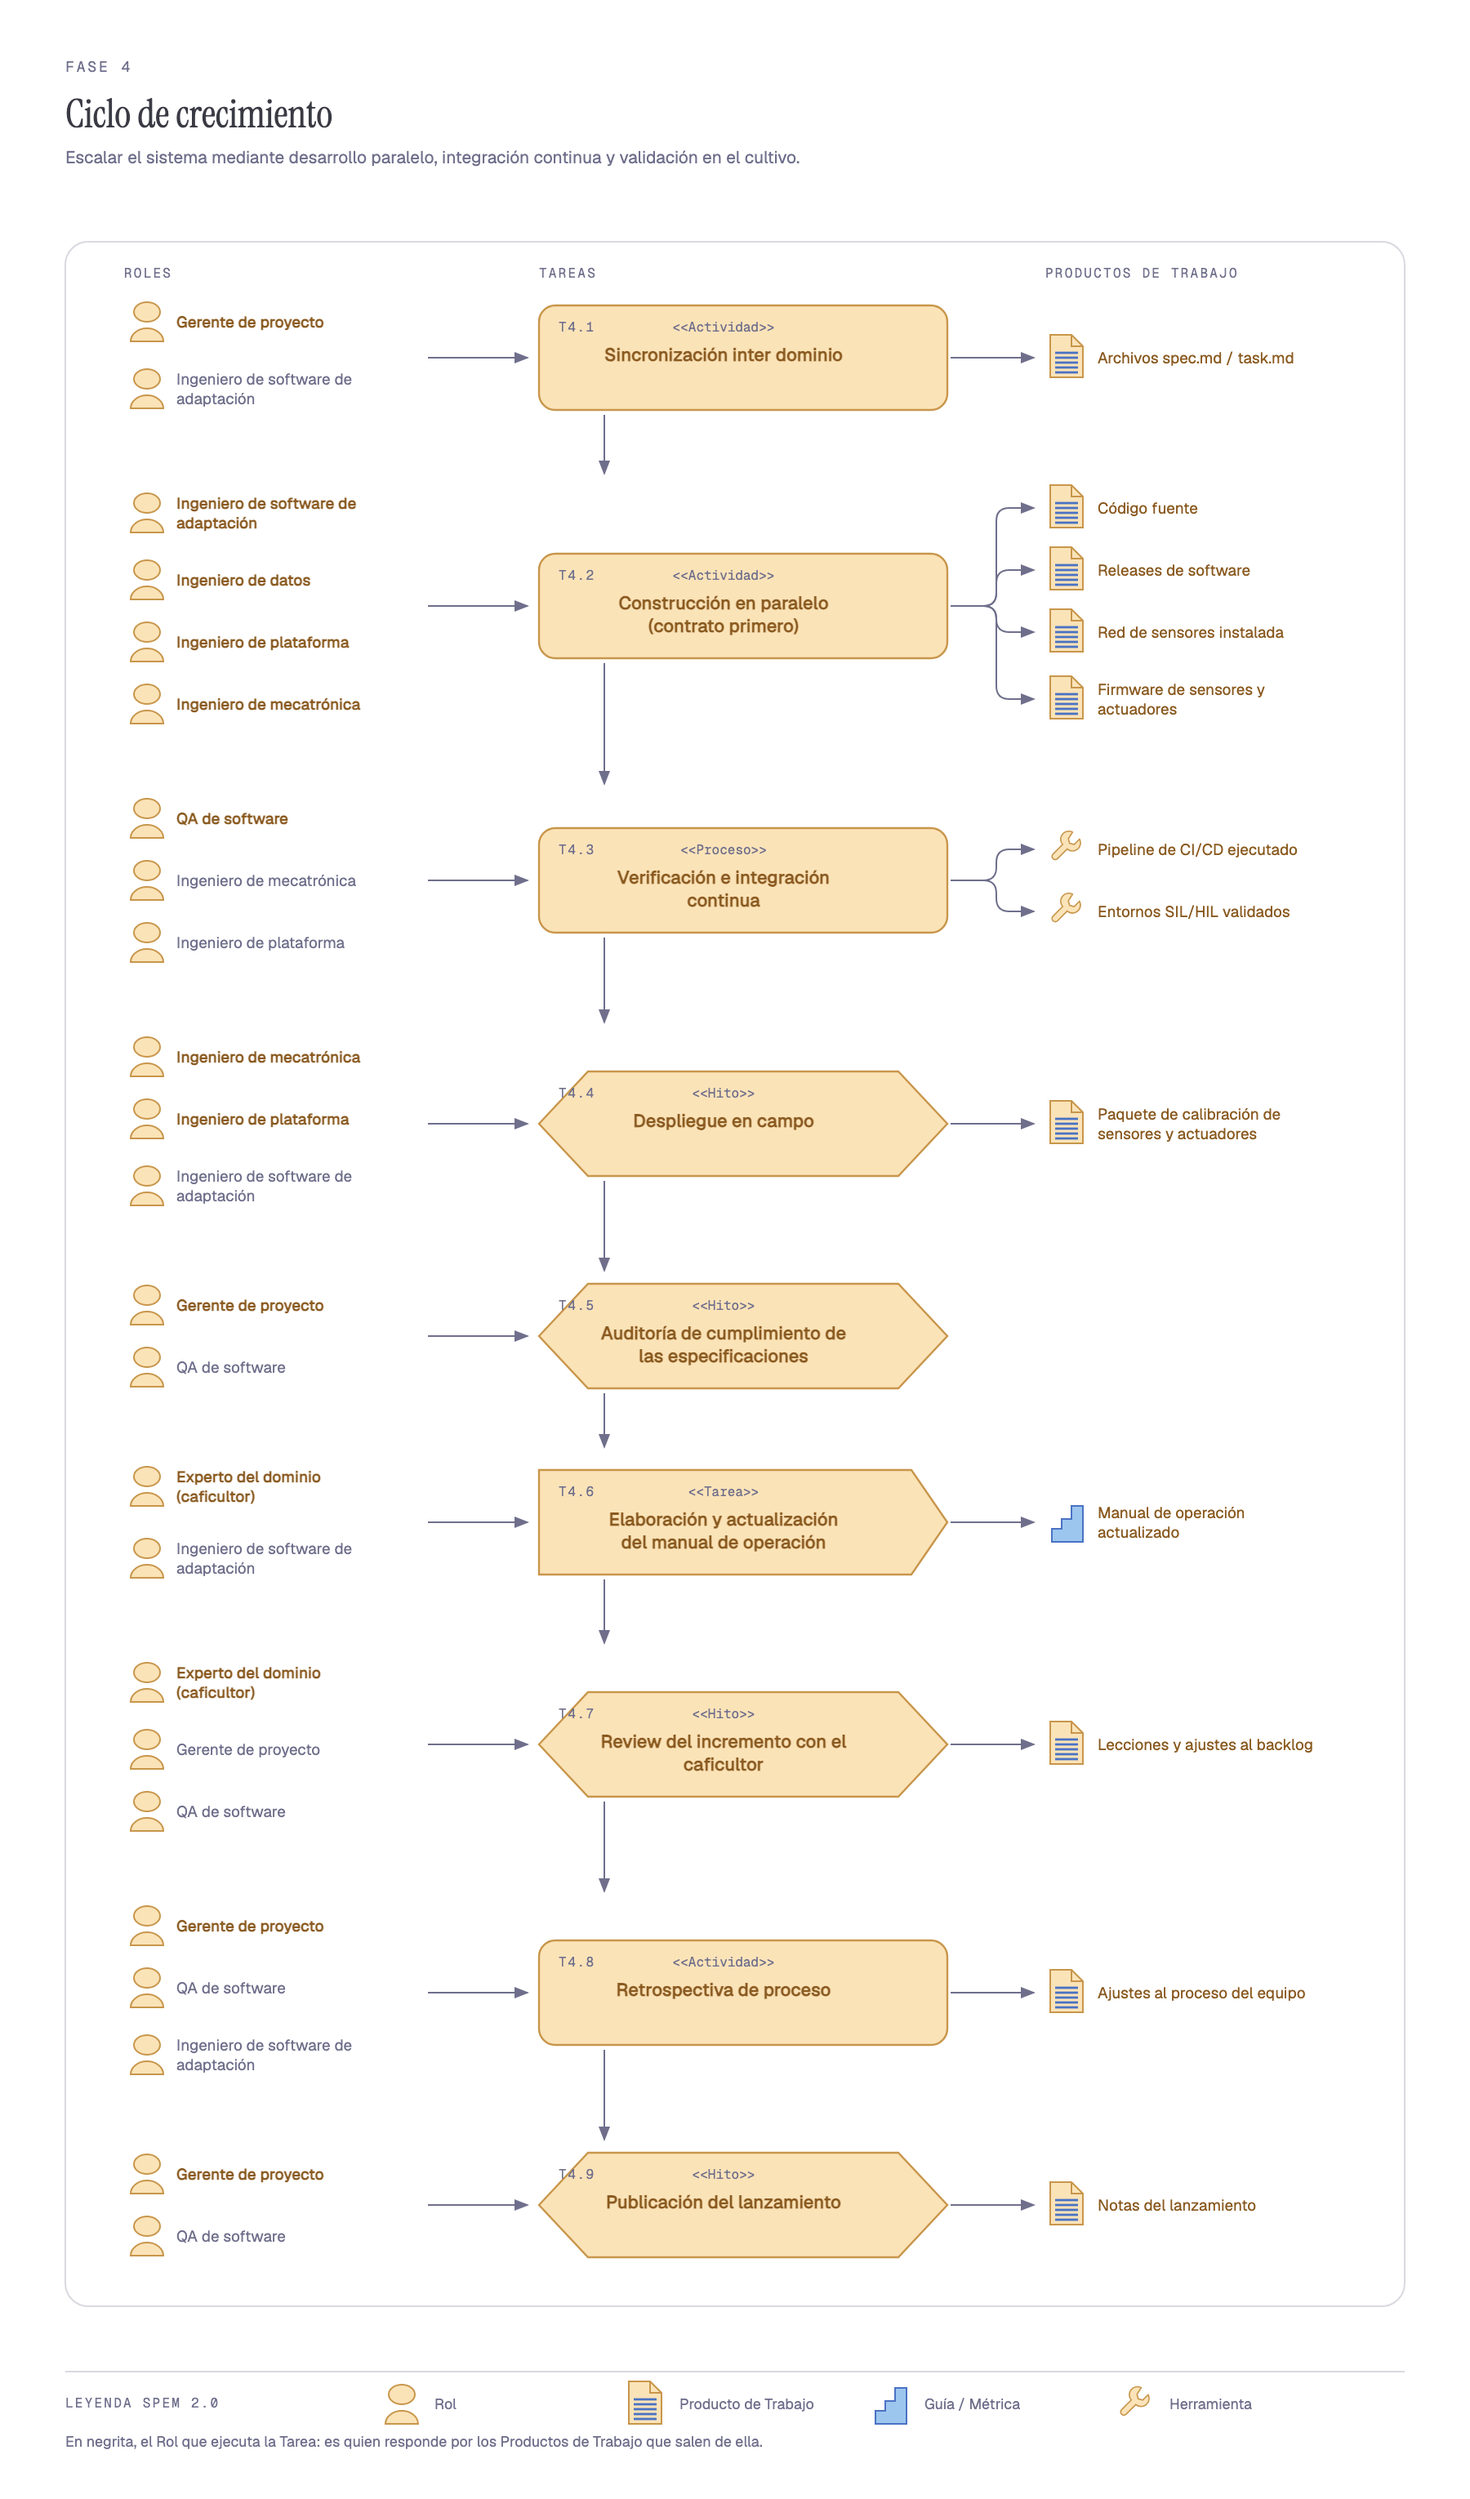
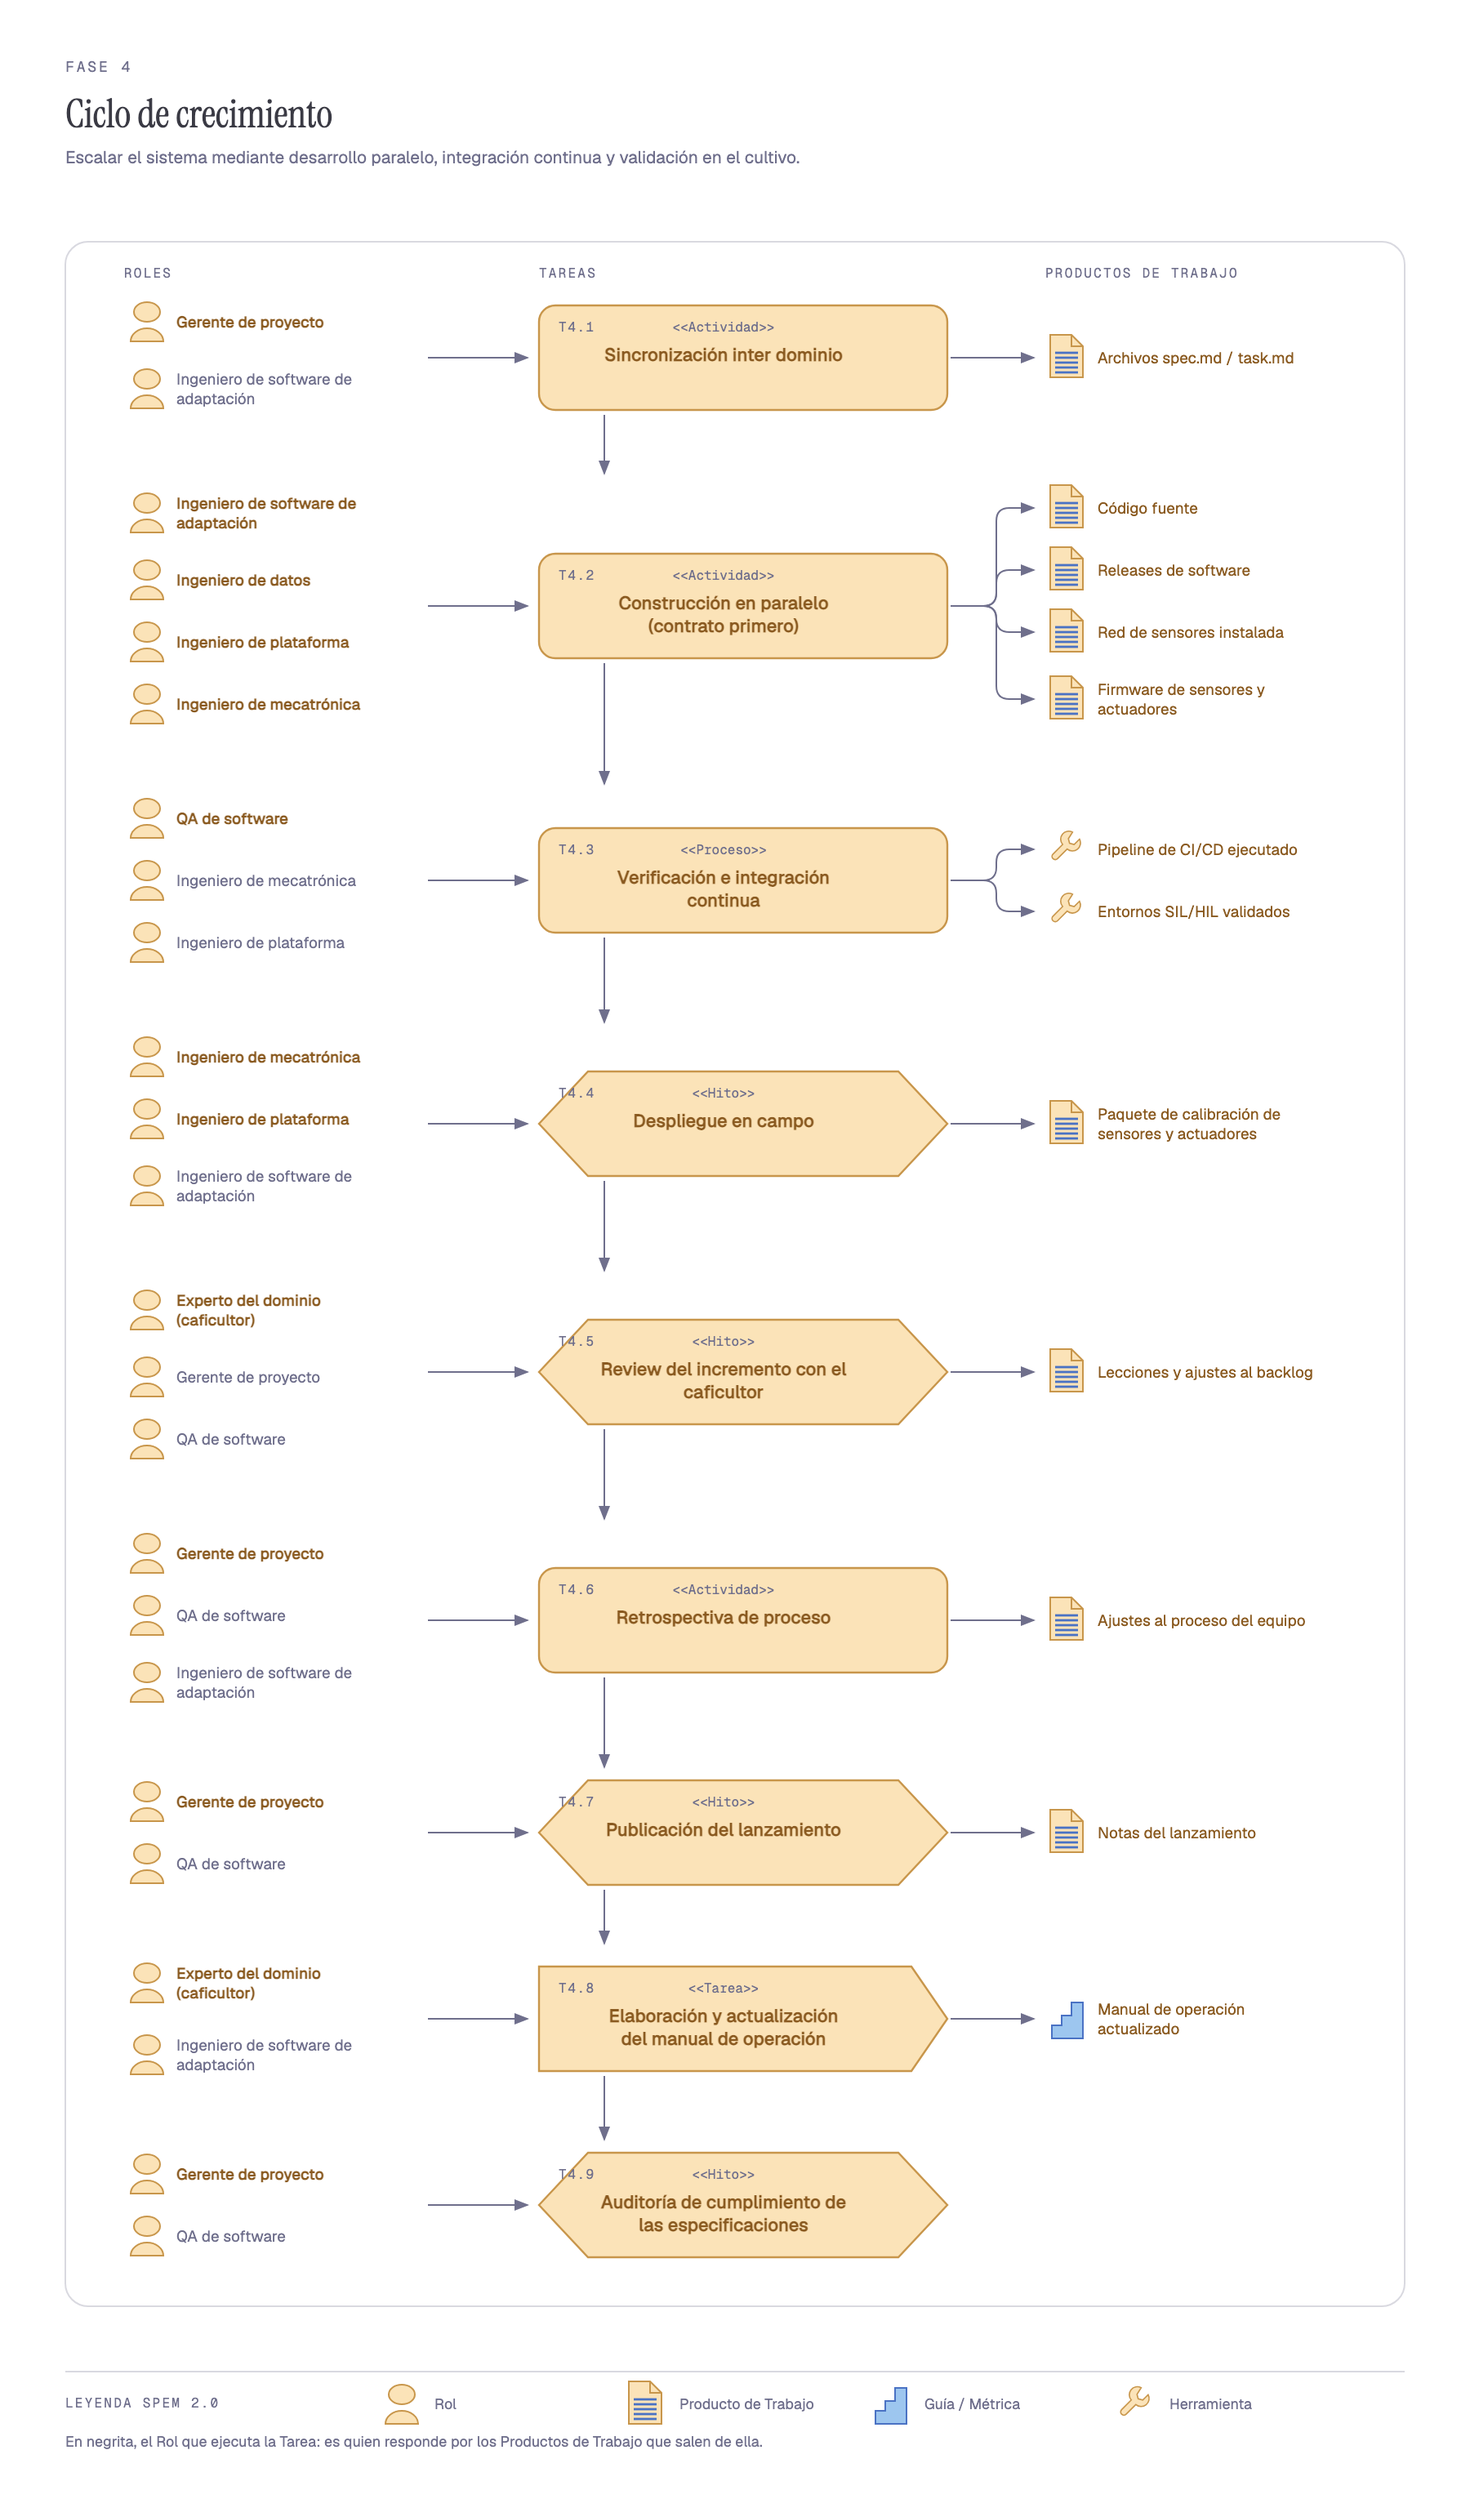
fix: el anillo se lee en el orden de los pasos del paper
El ciclo salía del despliegue a la auditoría y dejaba el review, la
retrospectiva y la publicación para el final. Los pasos del documento van al
revés: primero se muestra el incremento, después el equipo se mira a sí mismo,
después se publica, después se actualiza el manual y al final se audita contra
las especificaciones.

La Fase 4 se renumera en ese orden —T4.5 review, T4.6 retrospectiva, T4.7
publicación, T4.8 manual, T4.9 auditoría—, así que la columna izquierda del
anillo se lee de abajo hacia arriba en la misma secuencia que el texto. La
retroalimentación al backlog sale ahora del review, que es de donde viene lo
aprendido, y el rótulo de los lanzamientos se ancla a la Tarea que los publica.

El manual consume las notas del lanzamiento: se escribe con la versión ya
publicada en la mano, no antes.

diff --git a/src/seed.ts b/src/seed.ts
@@ -395,26 +395,6 @@ export const seed = (): Modelo => ({
         {
           id: "t4-5",
           icono: "milestone",
-          nombre: "Auditoría de cumplimiento de las especificaciones",
-          descripcion:
-            "Revisar que el incremento no rompa la Constitution.md de la Fase 1 ni se salga del plan.md acordado en la Fase 2.",
-          roles: [...ejecuta(GP), ...asiste(QA)],
-          entrada: [CONSTITUCION, SPECS],
-          salida: [],
-        },
-        {
-          id: "t4-6",
-          icono: "task",
-          nombre: "Elaboración y actualización del manual de operación",
-          descripcion:
-            "Traducir los cambios técnicos de los releases en guías claras para el caficultor.",
-          roles: [...ejecuta(ED), ...asiste(ISA)],
-          entrada: [],
-          salida: [guia("Manual de operación actualizado")],
-        },
-        {
-          id: "t4-7",
-          icono: "milestone",
           nombre: "Review del incremento con el caficultor",
           descripcion:
             "Demostrar el incremento en su terreno y recoger lo aprendido: es lo que reordena el backlog del siguiente.",
@@ -423,7 +403,7 @@ export const seed = (): Modelo => ({
           salida: [LECCIONES],
         },
         {
-          id: "t4-8",
+          id: "t4-6",
           icono: "activity",
           nombre: "Retrospectiva de proceso",
           descripcion:
@@ -433,7 +413,7 @@ export const seed = (): Modelo => ({
           salida: [AJUSTES_PROCESO],
         },
         {
-          id: "t4-9",
+          id: "t4-7",
           icono: "milestone",
           nombre: "Publicación del lanzamiento",
           descripcion:
@@ -441,6 +421,26 @@ export const seed = (): Modelo => ({
           roles: [...ejecuta(GP), ...asiste(QA)],
           entrada: [POLITICA_REL],
           salida: [NOTAS_RELEASE],
+        },
+        {
+          id: "t4-8",
+          icono: "task",
+          nombre: "Elaboración y actualización del manual de operación",
+          descripcion:
+            "Traducir los cambios técnicos del lanzamiento en guías claras para el caficultor.",
+          roles: [...ejecuta(ED), ...asiste(ISA)],
+          entrada: [NOTAS_RELEASE],
+          salida: [guia("Manual de operación actualizado")],
+        },
+        {
+          id: "t4-9",
+          icono: "milestone",
+          nombre: "Auditoría de cumplimiento de las especificaciones",
+          descripcion:
+            "Revisar que el incremento no rompa la Constitution.md de la Fase 1 ni se salga del plan.md acordado en la Fase 2.",
+          roles: [...ejecuta(GP), ...asiste(QA)],
+          entrada: [CONSTITUCION, SPECS],
+          salida: [],
         },
       ],
       entrada: [

diff --git a/src/consolidado.ts b/src/consolidado.ts
@@ -465,7 +465,7 @@ export function consolidado(m: Modelo) {
     conector([[d2.cx - d2.w / 2, d2.cy], [200, d2.cy], [200, ANILLO_CY + RY + 80], [234, ANILLO_CY + RY + 80]]),
     // La retroalimentación del review: lo aprendido en campo reordena el backlog.
     conector(
-      [der(c["t4-7"]), [CORREDOR_X, c["t4-7"].cy], [CORREDOR_X, c["t4-1"].cy], izq(c["t4-1"])],
+      [der(c["t4-5"]), [CORREDOR_X, c["t4-5"].cy], [CORREDOR_X, c["t4-1"].cy], izq(c["t4-1"])],
       "feedback",
     ),
   );
@@ -475,10 +475,10 @@ export function consolidado(m: Modelo) {
     rotulo("Sí", d1.cx + 34, d1.cy + 90),
     rotulo("No", d2.cx + d2.w / 2 + 60, d2.cy - 12),
     rotulo("Sí", 200, ANILLO_CY + RY + 20),
-    rotulo("retroalimentación al backlog", 1060, c["t4-7"].cy - 26, AZUL),
+    rotulo("retroalimentación al backlog", 1060, c["t4-5"].cy - 8, AZUL),
     // Un lanzamiento por incremento: la publicación es una Tarea del ciclo, y el
     // recuadro del pie solo dice en qué mes cae cada uno.
-    rotulo("R1 → R5, uno por incremento", c["t4-9"].x - 160, c["t4-9"].cy, MARRON),
+    rotulo("R1 → R5, uno por incremento", c["t4-7"].x - 160, c["t4-7"].cy, MARRON),
     hito("FIN", 270, ANILLO_CY + RY + 80),
   );
 

diff --git a/docs/adr/0016-fase-cero-retrospectiva-y-lanzamientos.md b/docs/adr/0016-fase-cero-retrospectiva-y-lanzamientos.md
@@ -35,11 +35,14 @@ backlog, el mapa de ruta y la política).
 
 ### Ciclo de crecimiento
 
-- **T4.8 Retrospectiva de proceso**, después del review: entrega *Ajustes al proceso del
+- **T4.6 Retrospectiva de proceso**, después del review: entrega *Ajustes al proceso del
   equipo*. El review mira el producto; la retrospectiva, la forma de trabajar.
-- **T4.9 Publicación del lanzamiento**, antes de la puerta: consume la política de la
-  **Fase 0** y entrega las *Notas del lanzamiento*. El plan deja de ser un recuadro
-  suelto: hay una **Tarea** que lo produce.
+- **T4.7 Publicación del lanzamiento**: consume la política de la **Fase 0** y entrega
+  las *Notas del lanzamiento*. El plan deja de ser un recuadro suelto: hay una **Tarea**
+  que lo produce.
+- El anillo se lee en el orden de los pasos del paper: **T4.4** despliegue, **T4.5**
+  review, **T4.6** retrospectiva, **T4.7** publicación, **T4.8** manual y **T4.9**
+  auditoría, y de ahí a la puerta.
 - **Seis releases**: **R0** cierra el arranque —no es un incremento— y **R1 a R5** son
   uno por incremento, en los meses 10, 14, 18, 22 y 26.
 
